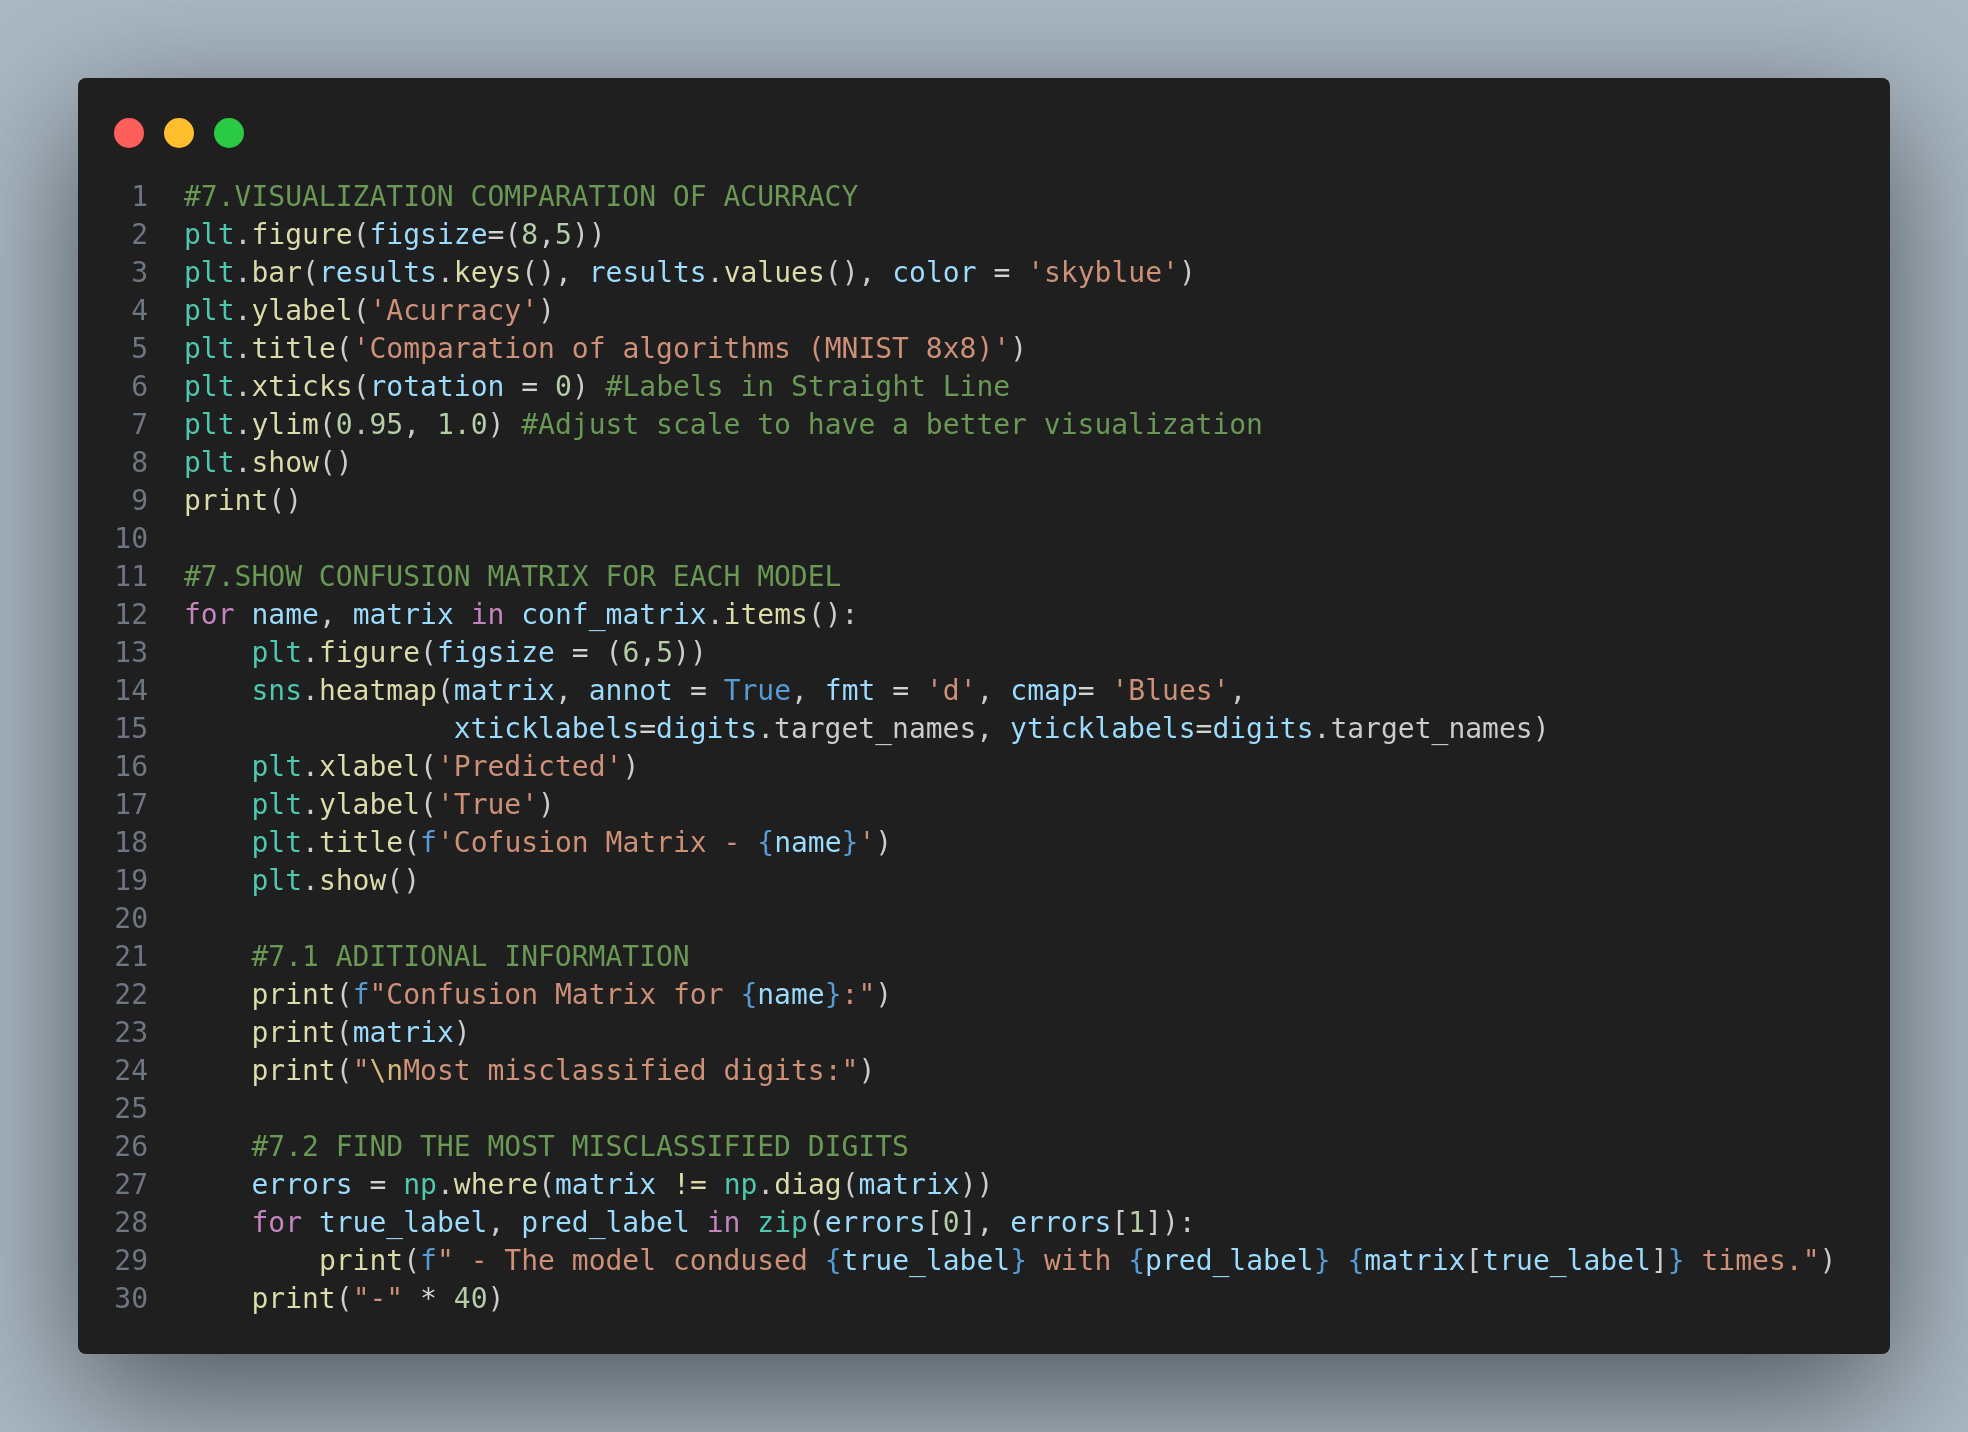
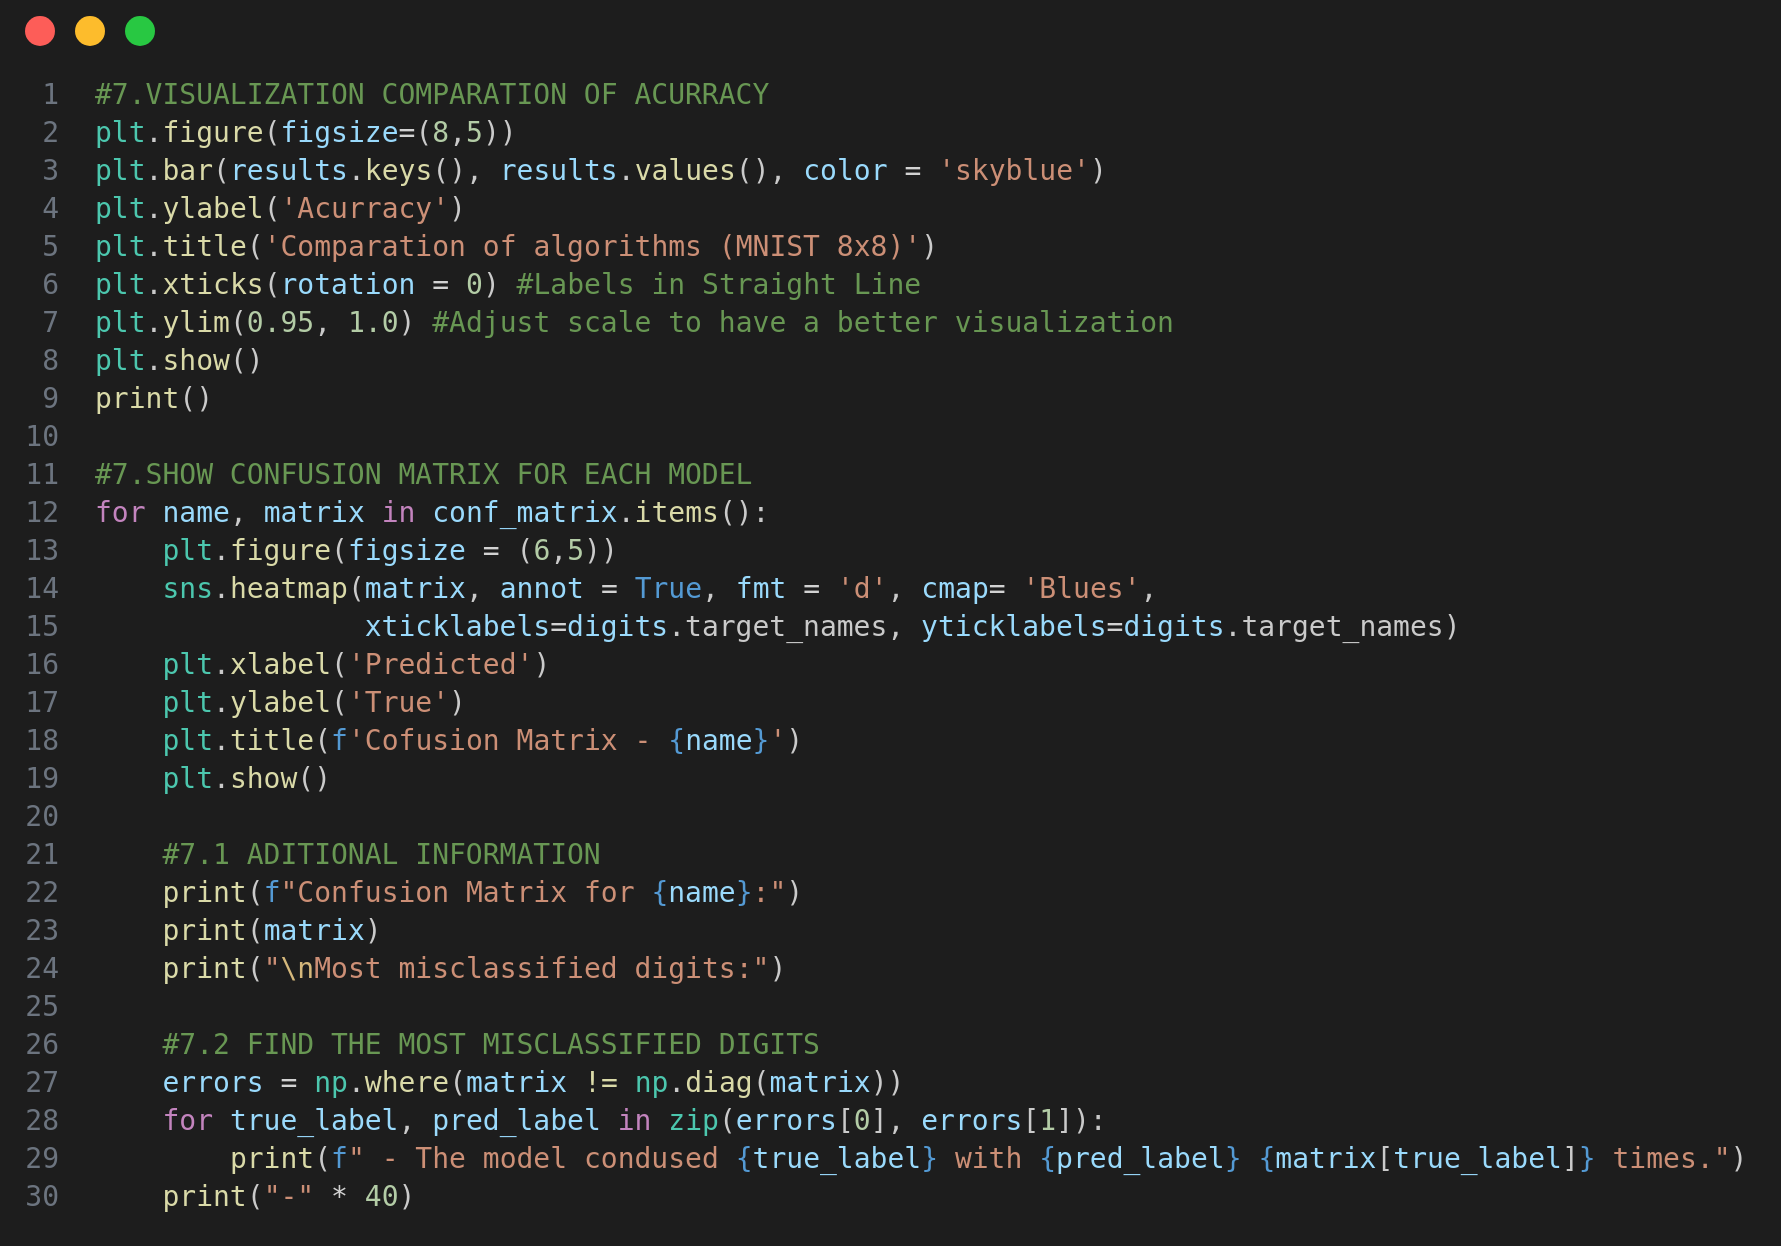
Readme

diff --git a/1.FundamentalsML/1.HandwrittenDigitClassifier(MNIST)/1.5Optimization(Tuning&Hyperparameters)/1.5Optimization(Tuning&DA).py b/1.FundamentalsML/1.HandwrittenDigitClassifier(MNIST)/1.5Optimization(Tuning&Hyperparameters)/1.5Optimization(Tuning&DA).py
@@ -1,4 +1,4 @@
-#IMPORT LIBRARIES
+#1.IMPORT LIBRARIES
 import numpy as np 
 import matplotlib.pyplot as plt
 import seaborn as sns
@@ -11,21 +11,21 @@ from sklearn.svm import SVC
 from sklearn.neural_network import MLPClassifier
 from sklearn.metrics import confusion_matrix, classification_report
 
-#.LOAD DATASET 
+#2.LOAD DATASET 
 print("Loading dataset MNIST 8x8...")
 digits = load_digits()
 x = digits.data
 y = digits.target
 
-#.DIVIDE DATASET INTO TRAINING AND TESTING
+#3.DIVIDE DATASET INTO TRAINING AND TESTING
 x_train, x_test, y_train, y_test = train_test_split(x, y, test_size = 0.2, random_state = 42)
 
-#.NORMALIZE DATA 
+#4.NORMALIZE DATA 
 scaler = StandardScaler()
 x_train = scaler.fit_transform(x_train)
 x_test = scaler.transform(x_test)
 
-#.DEFINE MODELS WITH HYPERPARAMETERS TUNING 
+#5.DEFINE MODELS WITH HYPERPARAMETERS TUNING 
 param_grid = {
     "Logistic Regression": {"C": [0.1, 1, 10], "max_iter": [1000, 5000]},
     "K-Nearest Neighbors (KNN)": {"n_neighbors": [3, 5, 7]},
@@ -37,6 +37,7 @@ results = {}
 conf_matrix = {}
 classification_reports = {}
 
+#6.OPTIMIZE MODELS
 for name, params in param_grid.items():
     print(f"Optimizing {name}...")
     if name == "Logistic Regression":
@@ -61,7 +62,7 @@ for name, params in param_grid.items():
     print(f"Best Parameters for {name}: {grid_search.best_params_}")
     print(f"{name} - Accuracy: {accuracy: .4f}")
 
-#.VISUALIZATION COMPARATION OF ACCURACY 
+#7.VISUALIZATION COMPARATION OF ACCURACY 
 plt.figure(figsize=(8,5))
 plt.bar(results.keys(), results.values(), color = 'skyblue')
 plt.ylabel('Accuracy')
@@ -70,7 +71,7 @@ plt.xticks(rotation = 0)
 plt.ylim(0.95, 1.0)
 plt.show()
 
-#.SHOW CONFUSION MATRIX FOR EACH MODEL
+#7.1 SHOW CONFUSION MATRIX FOR EACH MODEL
 for name, matrix in conf_matrix.items():
     plt.figure(figsize = (6,5))
     sns.heatmap(matrix, annot = True, fmt= 'd', cmap = 'Blues', 
@@ -82,12 +83,13 @@ for name, matrix in conf_matrix.items():
     print(f"Confusion Matrix for {name}:")
     print(matrix)
     print("\nMost Misclassified Digits:")
+    #7.2 Error Analysis
     errors = np.where(matrix != np.diag(matrix))
     for true_label, pred_label in zip(errors[0], errors[1]):
         print (f" - The model confused {true_label} with {pred_label} {matrix[true_label, pred_label]} times.")
     print("-" * 50)
 
-#.CLASSIFICATION REPORT 
+#8.CLASSIFICATION REPORT 
 for name, report in classification_reports.items():
     print(f"\n{name} - Classification Report:")
     print(report)

diff --git a/1.FundamentalsML/1.HandwrittenDigitClassifier(MNIST)/1.5Optimization(Tuning&Hyperparameters)/Readme.md b/1.FundamentalsML/1.HandwrittenDigitClassifier(MNIST)/1.5Optimization(Tuning&Hyperparameters)/Readme.md
@@ -123,9 +123,20 @@ It's a table that shows how many times the model correctly classified each numbe
 
 |Pseudocode| Image of the program|
 |----------|---------------------|
-**NumPy:** Used to work with arrays and matrices, and it has functions for mathematics and statistics <br> **Pandas:** Used to manipulate and analyze data, particularly with DataFrames (tables of rows and columns).<br> **matplotlib.pyplot:** Used to create graphs, and pyplot is specifically for generating different types of plots (e.g., bar, line, scatter).<br> **load_digits from sklearn.datasets:** Used to load a dataset of handwritten digits, which is commonly used in classification projects.| <img src = "https://github.com/KevinAlberto01/3.MachineLearning/blob/main/1.FundamentalsML/1.HandwrittenDigitClassifier(MNIST)/1.1LoadingAndExploring(MNIST)/Images/1.DeclareteLibraries.png" width="4000"/>|
-**`digits`:** loads a dataset of handwritten digit images, where you find images of numbers 0 to 9 in black and white, each with 8x8 pixels. Each image represents a number (digit) and has a label indicating which number it is. <br> **`x`:** Contains images (numeric format), for each 8x8 image it is flattened into a 64 array, each value represents the pixel intensity (0 = black, 16 = white). <br> **`y`:** contains the labels (real numbers of the images), each element is a number from 0 to , representing which digit each image is| <img src = "https://github.com/KevinAlberto01/3.MachineLearning/blob/main/1.FundamentalsML/1.HandwrittenDigitClassifier(MNIST)/1.1LoadingAndExploring(MNIST)/Images/2.LoadDataset.png" width="4000"/>|
-**`x.shape`:** Returns the dimension of x(1797, 64), it has 1797 images, and each image has 64 values (8x8 pixels). <br> **`y.shape`:** Returns the dimension of y (1797), there are 1797 labels per image, each label is the number it represents (0-9).|<img src = "https://github.com/KevinAlberto01/3.MachineLearning/blob/main/1.FundamentalsML/1.HandwrittenDigitClassifier(MNIST)/1.1LoadingAndExploring(MNIST)/Images/3.ExploringDimensionsDataSet.png" width="4000"/>|
-**`clases`:** Contains the unique values of y(0-9) <br> **`count_classes`:** Array that indicates how many examples there are of each class | <img src = "https://github.com/KevinAlberto01/3.MachineLearning/blob/main/1.FundamentalsML/1.HandwrittenDigitClassifier(MNIST)/1.1LoadingAndExploring(MNIST)/Images/4.CheckClassesNumberExamples.png" width="4000"/>|
-**`plt.figure(figsize=(8,5))`:** Set the size of the figure (8 wide and 5 high) <br> **`plt.bar(clases, count_classes, color='skyblue')`:** Create the bar chart, the list that contains the number of examples, assign the color of the bars. <br> **`plt.xlabel('Digit')`:** Set the x-axis label <br> **`plt.ylabel('Number of examples')`:** Set the y-axis label <br> **`plt.title('Distribution of the classes')`:** Add a title to the chart. <br> **`plt.show()`:** Visualize the graph | <img src = "https://github.com/KevinAlberto01/3.MachineLearning/blob/main/1.FundamentalsML/1.HandwrittenDigitClassifier(MNIST)/1.1LoadingAndExploring(MNIST)/Images/5.ViewDistributionClasses.png" width="4000"/>|
-**`fig, axes = plt.subplots(2, 5, figsize=(10, 5))`:** Create a figure and a grid (2 rows and 5 columns) totaling 10 subplots, set the size (10, 5 in inches)  10 wide and 5 high <br> **`fig.suptitle("Examples of images")`:** Establish a general title <br> **`for i, ax in enumerate(axes.ravel())`:** Iterates through each of the subplots, converts the (2x5) matrix into a one-dimensional array, which makes individual access easier, and returns both the index `i` and the `ax` object in each iteration. <br> **`ax.imshow(x[i].reshape(8,8), cmap='gray')`:** it is a vector image from the dataset.  resize to an 8x8 matrix, apply a grayscale <br> **`ax.set_title(f"label: {y[i]}")`:** Assign a title to each subplot. <br> **`ax.axis('off')`:** Deactivate the axes so that the marks or values do not appear. <br> **`plt.show()`:** Show the subplots and images. | <img src = "https://github.com/KevinAlberto01/3.MachineLearning/blob/main/1.FundamentalsML/1.HandwrittenDigitClassifier(MNIST)/1.1LoadingAndExploring(MNIST)/Images/6.ViewExample.png" width="4000"/>|
+**numpy:** To handle numerical arrays efficiently. <br> **matplotlib.pyplot:** To plot the comparison of accuracy and confusion matrices. <br> **seaborn:** To visualize the confusion matrix with a clear and attractive style. <br> **load_digits:** Load the reduced MNIST dataset (8x8 digit images). <br> **train_test_split:** Split the dataset into training and test sets. <br> **GridSearchCV:** It allows performing hyperparameter search to find the best configuration for each model.
+<br> **StandardScaler:** Normalizes the data to improve model performance. <br> Models: <br>
+LogisticRegression, KNeighborsClassifier, SVC, MLPClassifier: Classification models. <br> Metrics: <br> **confusion_matrix:** To calculate the confusion matrix. <br> **classification_report:** To obtain a detailed summary of the performance of each model.| <img src = "https://github.com/KevinAlberto01/3.MachineLearning/blob/main/1.FundamentalsML/1.HandwrittenDigitClassifier(MNIST)/1.1LoadingAndExploring(MNIST)/Images/1.DeclareteLibraries.png" width="4000"/>|
+
+| <img src = "https://github.com/KevinAlberto01/3.MachineLearning/blob/main/1.FundamentalsML/1.HandwrittenDigitClassifier(MNIST)/1.1LoadingAndExploring(MNIST)/Images/2.LoadDataset.png" width="4000"/>|
+
+|<img src = "https://github.com/KevinAlberto01/3.MachineLearning/blob/main/1.FundamentalsML/1.HandwrittenDigitClassifier(MNIST)/1.1LoadingAndExploring(MNIST)/Images/3.ExploringDimensionsDataSet.png" width="4000"/>|
+
+| <img src = "https://github.com/KevinAlberto01/3.MachineLearning/blob/main/1.FundamentalsML/1.HandwrittenDigitClassifier(MNIST)/1.1LoadingAndExploring(MNIST)/Images/4.CheckClassesNumberExamples.png" width="4000"/>|
+
+| <img src = "https://github.com/KevinAlberto01/3.MachineLearning/blob/main/1.FundamentalsML/1.HandwrittenDigitClassifier(MNIST)/1.1LoadingAndExploring(MNIST)/Images/5.ViewDistributionClasses.png" width="4000"/>|
+
+| <img src = "https://github.com/KevinAlberto01/3.MachineLearning/blob/main/1.FundamentalsML/1.HandwrittenDigitClassifier(MNIST)/1.1LoadingAndExploring(MNIST)/Images/6.ViewExample.png" width="4000"/>|
+
+| <img src = "https://github.com/KevinAlberto01/3.MachineLearning/blob/main/1.FundamentalsML/1.HandwrittenDigitClassifier(MNIST)/1.1LoadingAndExploring(MNIST)/Images/6.ViewExample.png" width="4000"/>|
+
+| <img src = "https://github.com/KevinAlberto01/3.MachineLearning/blob/main/1.FundamentalsML/1.HandwrittenDigitClassifier(MNIST)/1.1LoadingAndExploring(MNIST)/Images/6.ViewExample.png" width="4000"/>|
